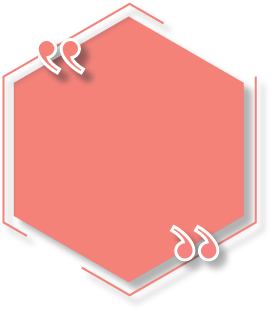
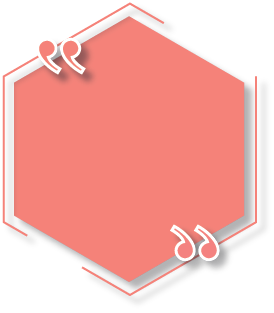
coral

diff --git a/css/contacto.css b/css/contacto.css
@@ -34,7 +34,7 @@ body{
   height:210px;
   background-clip: padding-box;
   text-align: center;
-  background-image: url("imagenes/Asset1.png");
+  background-image: url("imagenes/hexagono_simple_coral.png");
   vertical-align: center;
 	background-repeat: no-repeat;
 	background-position: center;
@@ -138,23 +138,22 @@ body{
 
 
 .boton{
-	display:none;/*
+	
 	clear: both;
 	width: 318.5px;
 	height: 200px;
 	border: 1px solid white;
 	background-color: black;
 	float:left;
-	*/
+	
 	
 }
 .footer{
-	display: none;
-	/*
+
 	display: flex;
 	justify-content: center;
 	clear:both;
-	*/
+	
 }
 
 

diff --git a/css/index.css b/css/index.css
@@ -26,7 +26,7 @@ body{
 }
 
 li{
-	background-image: url("imagenes/72ppi/Hexagono_Coral.png");
+	background-image: url("imagenes/Hexagono_Coral.png");
 	background-repeat: no-repeat;
 	background-position: center;
 	width: 310px;
